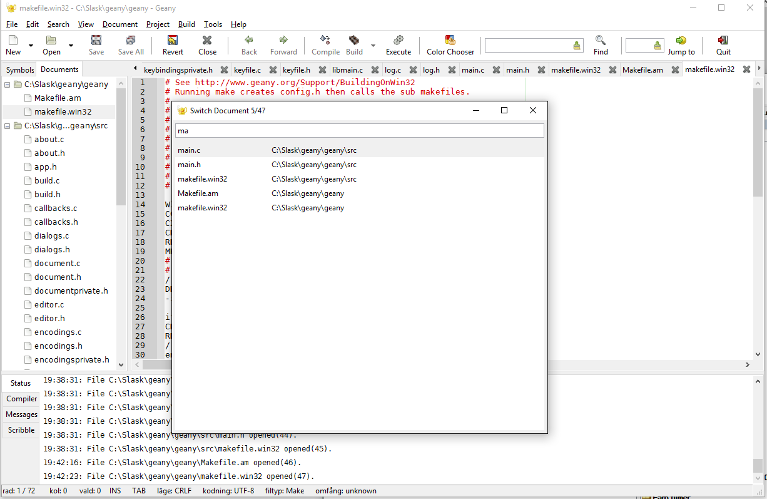
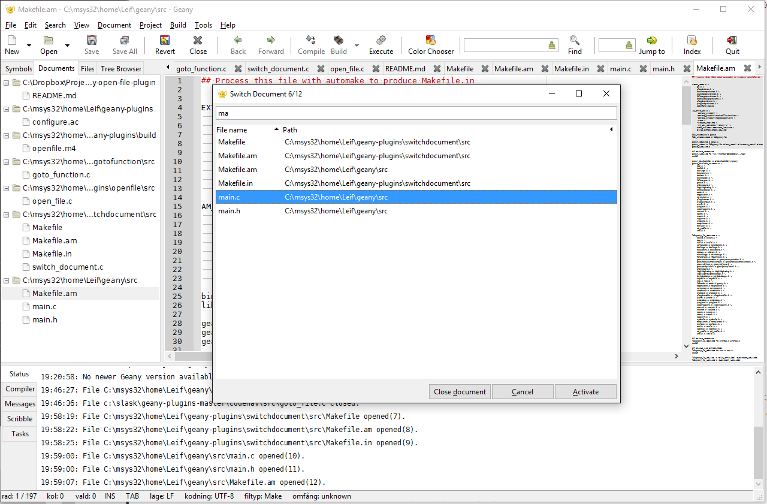
Updated screenshot

Changed region(s): [[0.0, 0.0, 1.0, 1.0], [0.9596, 0.8417, 1.0, 0.9619]]

diff --git a/switch_document.c b/switch_document.c
@@ -353,6 +353,7 @@ static gboolean callback_key_press(G_GNUC_UNUSED GtkWidget *widget,
 static void callback_close_document_button(G_GNUC_UNUSED GtkButton *button, struct PLUGIN_DATA *plugin_data)
 {
 	close_selected_document(plugin_data);
+	callback_update_visibilty_elements(NULL, plugin_data);
 }
 
 
@@ -440,6 +441,7 @@ int launch_widget(void)
 	gtk_widget_show_all(plugin_data->main_window);
 
 	select_first_row(plugin_data);
+	callback_update_visibilty_elements(NULL, plugin_data);
 
 	return 0;
 }
